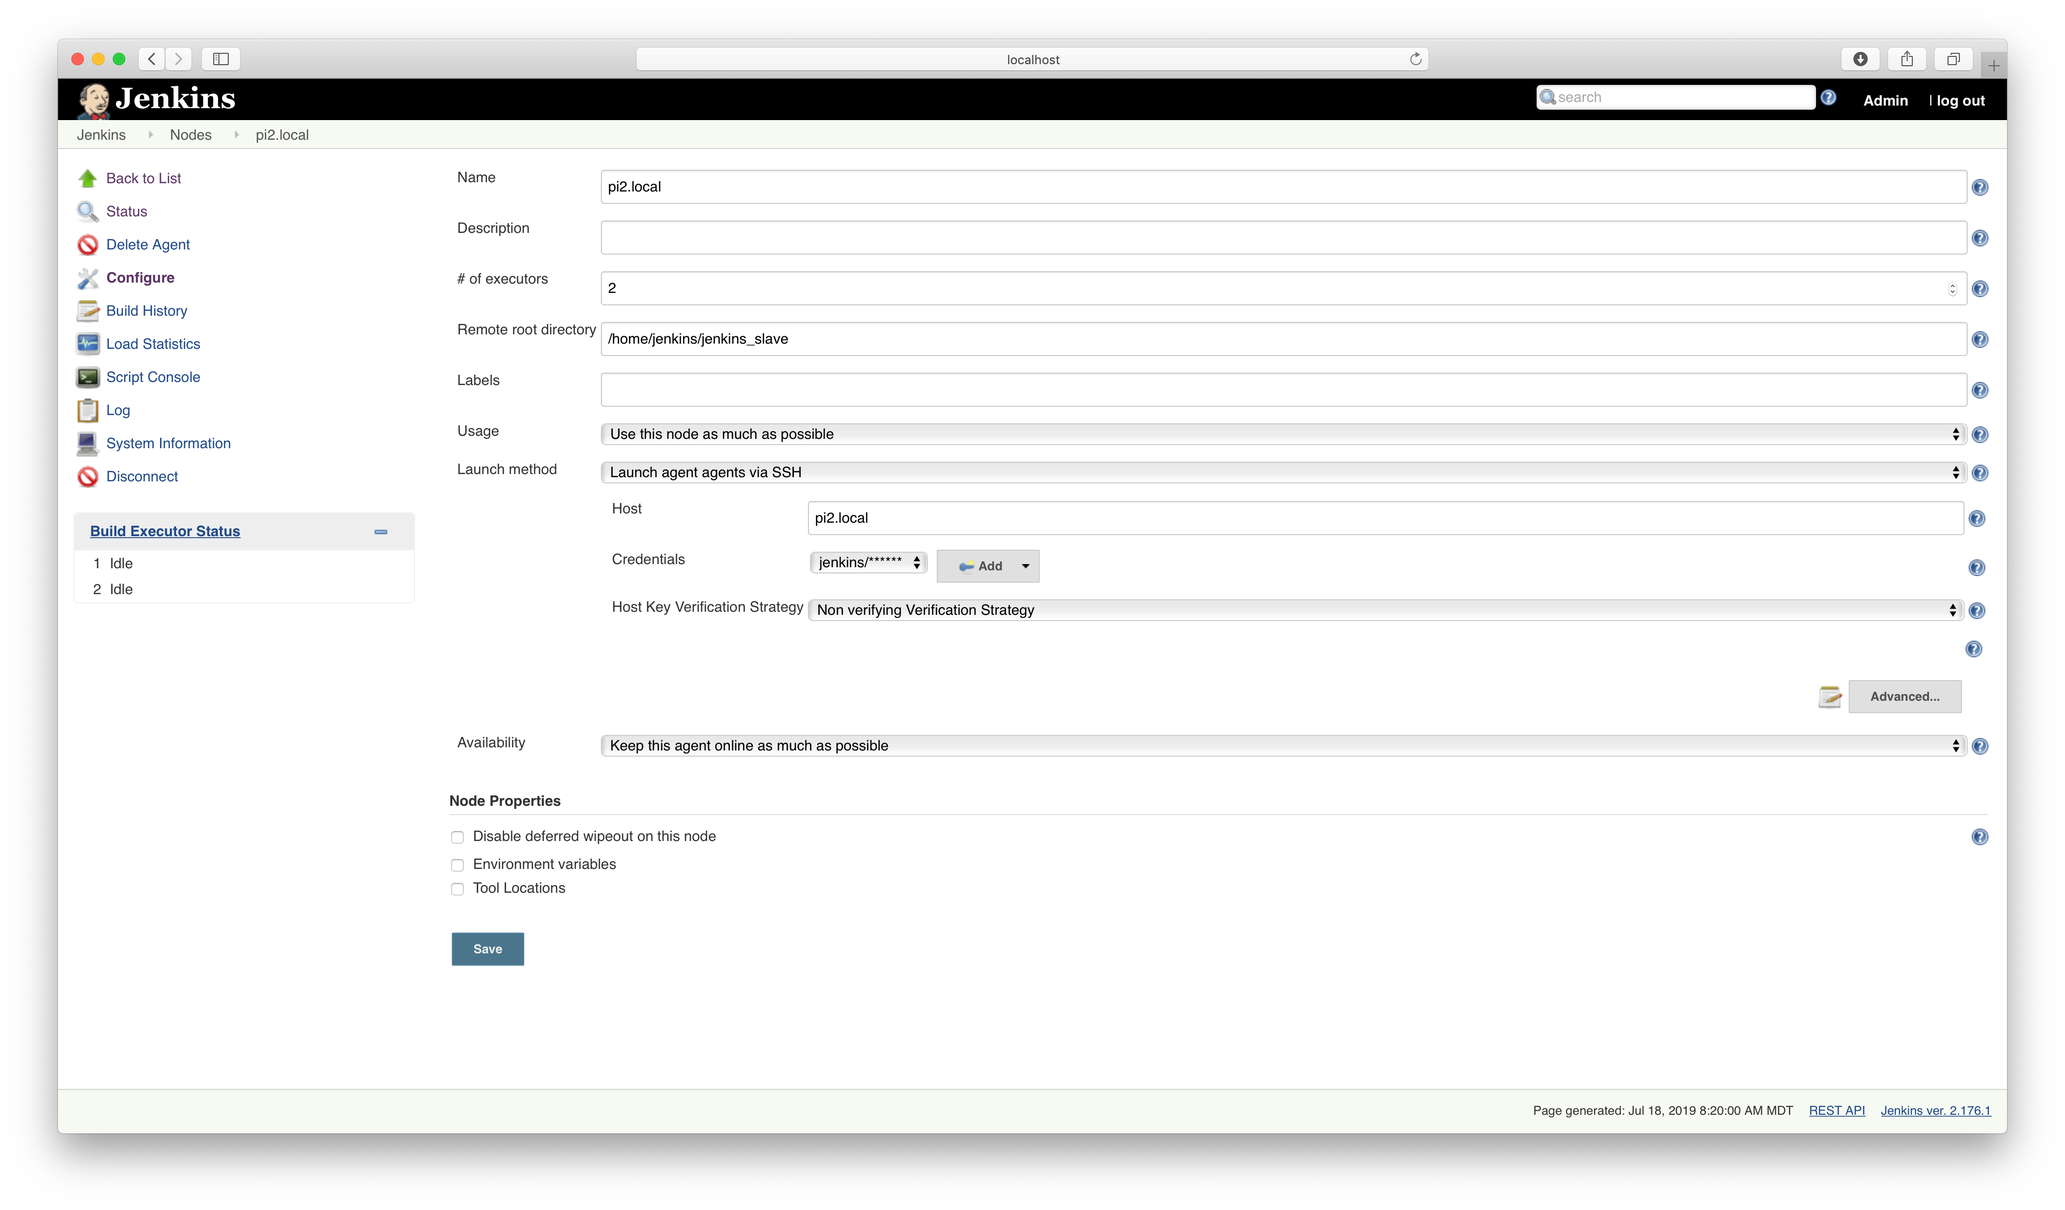
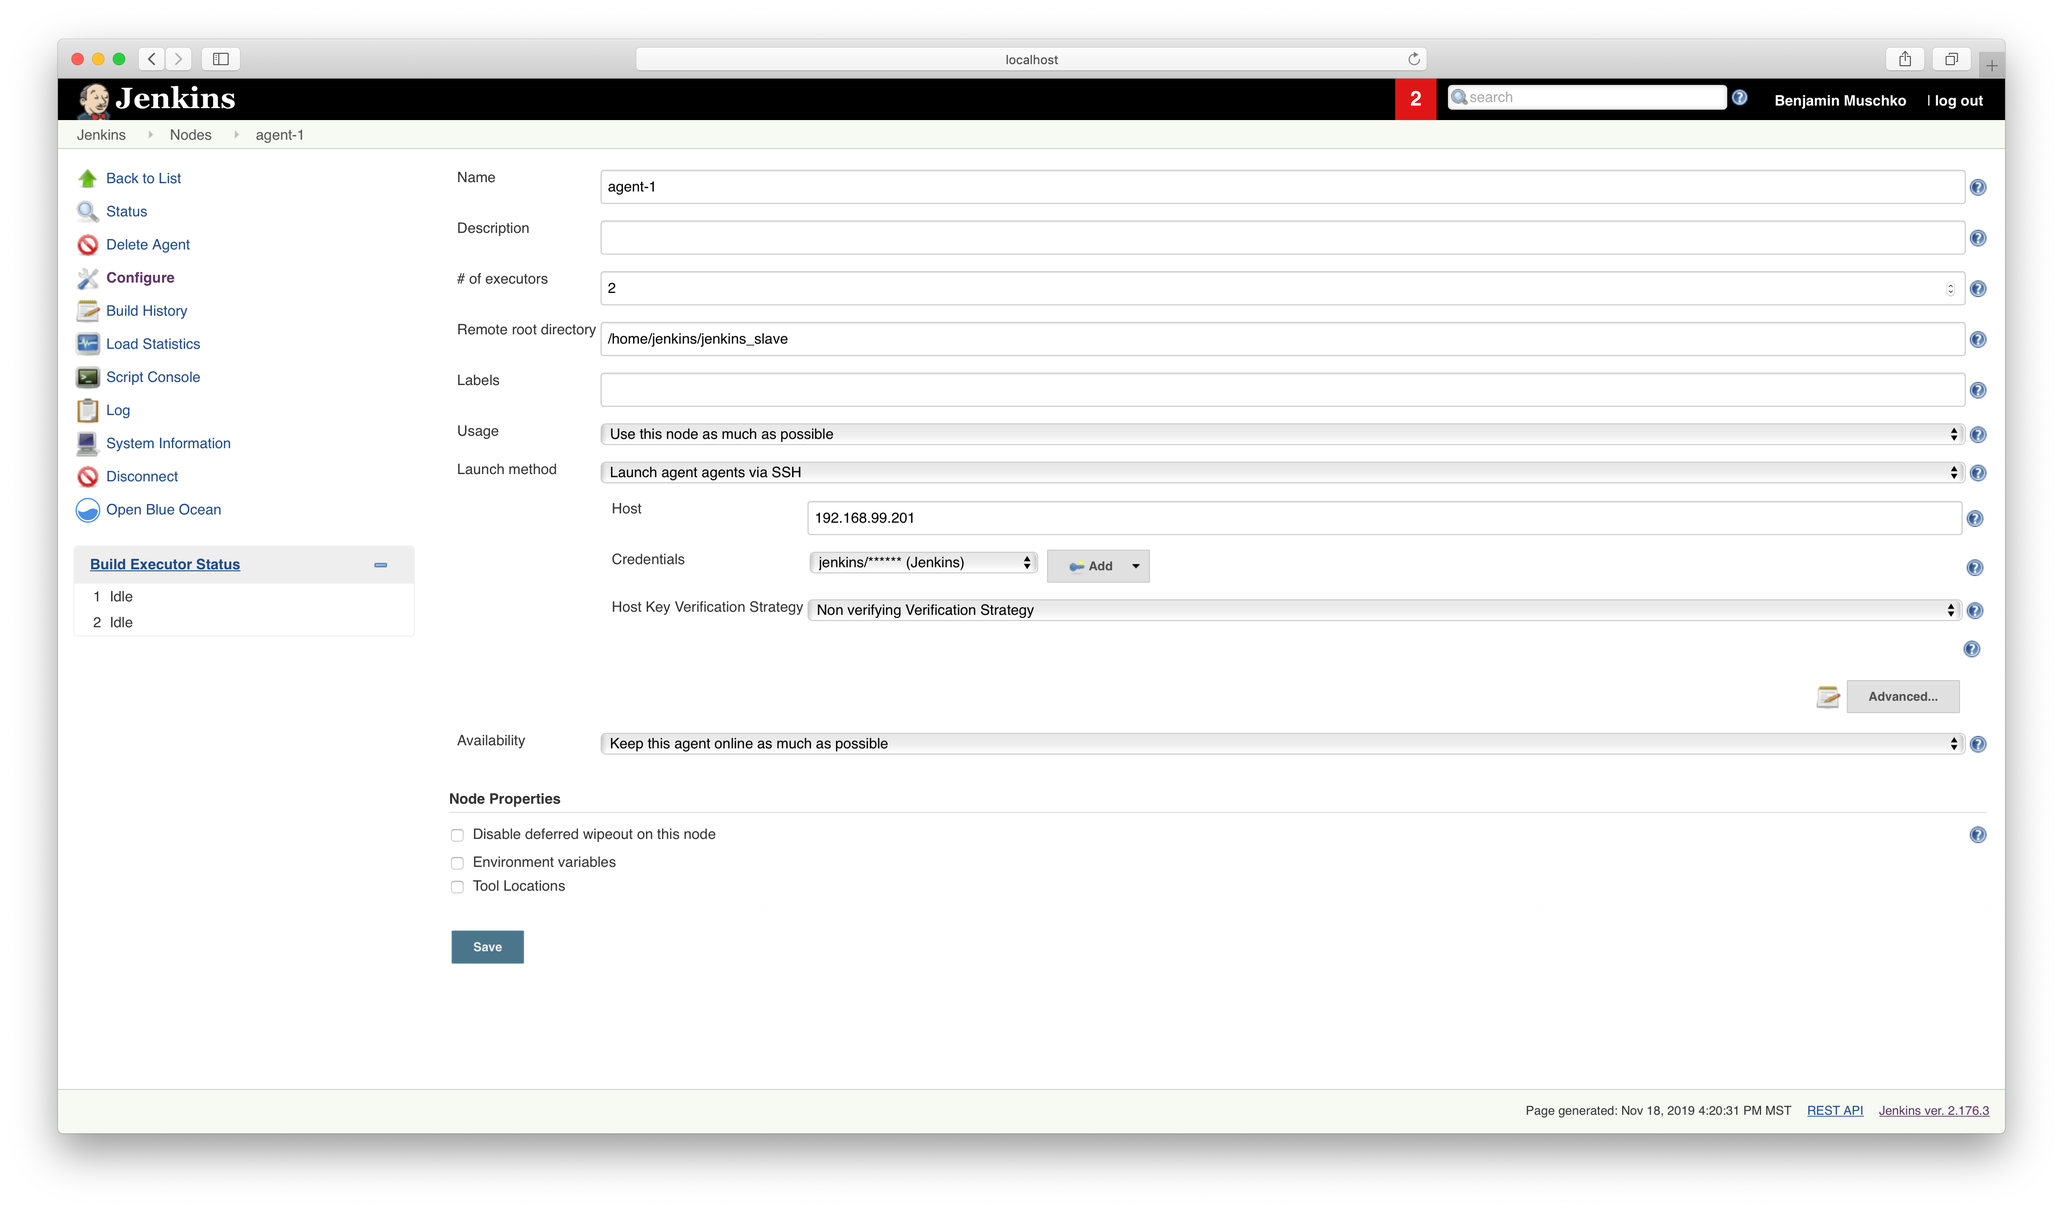
Clarify some details

diff --git a/exercises/13-advanced-jenkinsfile/instructions.md b/exercises/13-advanced-jenkinsfile/instructions.md
@@ -1,6 +1,6 @@
 # Exercise 13
 
-We'll want to enhance the pipeline by additional stages and implement a release workflow. The project is going to use an external tool called [GoReleaser](https://goreleaser.com/) to publish cross-compiled artifacts to [GitHub Releases](https://help.github.com/en/github/administering-a-repository/creating-releases). The binaries should only be released if the commit has been tagged.
+We'll want to enhance the existing Go pipeline by additional stages and implement a release workflow. The project is going to use an external tool called [GoReleaser](https://goreleaser.com/) to publish cross-compiled artifacts to [GitHub Releases](https://help.github.com/en/github/administering-a-repository/creating-releases). The binaries should only be released if the commit has been tagged. You will need to create an account on [CodeCov](https://codecov.io/) and set up a [GitHub token](https://github.com/settings/tokens) to follow along.
 
 ## Enhancing a Pipeline With Advanced Features
 
@@ -8,13 +8,11 @@ We'll want to enhance the pipeline by additional stages and implement a release 
     * Add a build step that runs the shell command `go test ./...`.
     * Generate code coverage metrics by adding the option `-coverprofile=coverage.txt` to the build step.
     * Publish the code coverage metrics to CodeCov by sending a curl command `curl -s https://codecov.io/bash | bash -s -`.
-    * Log into [CodeCov](https://codecov.io/), determine the CodeCov token for the repository (aka Repository Upload Token) and set it up as credential in Jenkins.
-    * Retrieve the credential and set the value as environment variable named `CODECOV_TOKEN`.
 2. Add a stage named `Code Analysis` that uses [golangci-lint](https://github.com/golangci/golangci-lint) to detect issues with the code.
-    * Add a build step for installing the `golangci-lint` with the shell command `curl -sfL https://install.goreleaser.com/github.com/golangci/golangci-lint.sh | bash -s -- -b $GOPATH/bin v1.17.1`
+    * Add a build step for installing the `golangci-lint` with the shell command `curl -sfL https://install.goreleaser.com/github.com/golangci/golangci-lint.sh | bash -s -- -b $GOPATH/bin v1.18.0`
     * Add a build step that runs `golangci-lint` with the shell command `golangci-lint run`.
 3. Add a stage named `Release` that uses [GoReleaser](https://github.com/goreleaser/goreleaser).
     * Only build this step if the commit has been tagged.
-    * Set up a credential in Jenkins named `github_token` and set your GitHub token. 
+    * Set up a credential in Jenkins named `github_token` and set your [GitHub token](https://github.com/settings/tokens). Create a new token if you didn't set up one yet.
     * Retrieve the credential and set the value as environment variable named `GITHUB_TOKEN`.
     * Add a build step that runs the shell command `curl -sL https://git.io/goreleaser | bash`.

diff --git a/exercises/10-distributed-builds/instructions.md b/exercises/10-distributed-builds/instructions.md
@@ -2,16 +2,25 @@
 
 You will start a VM using Vagrant as practice environment to set up a distributed build with 2 agents.
 
+## Starting up the VMs
+
+1. To start up the VMs, navigate to this directory. It should contain a `Vagrantfile`.
+2. Run the command `vagrant up`. Bringing up the VMs might take some minutes. The two VMs will be available with the IP address `192.168.99.201` and `192.168.99.202`. The username/password credentials for those VMs are `jenkins:jenkins`.
+
 ## Configuring and Executing Jobs in a Distributed Build
 
 1. Go to "Manage Jenkins" > "Manage Nodes". You should see a single `master` node.
 2. Configure the `master` node by setting the # of executor value to 0. That will take care of never using the `master` for job workload.
-3. Have other physical or virtual machines ready that can act as agent nodes. Log into the machine as `root` user and create a new user named `jenkins` with the commands `useradd -d /var/lib/jenkins jenkins` and `passwd jenkins`. From the `master` node, copy the contents of the `id_rsa.key` file to the clipboard. Paste the contents of the clipboard to the file `/var/lib/jenkins/.ssh/authorized_keys`.
-4. Add new nodes by clicking "New Nodes". Enter an appropriate name and select the option "Permanent Agent". Use the remote directory `/home/jenkins/jenkins_slave` and set the # of executors to 2. Enter the host and provide credentials by selecting "SSH Username with private key". To keep things easy select "Non verifying Verification Strategy".
+3. Add new nodes by clicking "New Nodes". Enter an appropriate name and select the option "Permanent Agent". Use the remote directory `/home/jenkins/jenkins_slave` and set the # of executors to 2. Enter the IP address `192.168.99.201` as host and provide credentials by selecting "Username with password". You will likely have to create a new credential. To keep things easy select "Non verifying Verification Strategy".
 4. Trigger a build. You should see that the build is only executed on the agent and not the `master` node.
-5. Add at least one more agent.
+5. Add one more agent with the IP address `192.168.99.202`.
 6. Trigger a build. You should see that the build can be executed on any of the agents.
 7. Configure one of the agents to only build jobs with a specific label e.g. `java`. Change the "Usage" field to "Only build jobs with label expressions matching this node".
 8. Configure the `gradle-initializr` job and assign the label `java`.
 9. Trigger a build of the `gradle-initializr` job. It is only executed by the dedicated agent.
 10. Trigger other jobs that do not have the label `java` assigned to them. They are waiting for an agent that can execute the build.
+
+## Shutting down the VMs
+
+1. After you are done with the exercise, navigate to the directory containing the `Vagrantfile`.
+2. Tear down the VM by executing `vagrant destroy -f`.

diff --git a/exercises/11-pipeline-job/instructions.md b/exercises/11-pipeline-job/instructions.md
@@ -1,14 +1,14 @@
 # Exercise 11
 
-In this exercise, you will set up a new multi-branch pipeline job and point it to an existing repository on GitHub. You will visualize the pipeline with the standard view and the Blue Ocean plugin.
+In this exercise, you will set up a new multi-branch pipeline job and point it to an existing repository on GitHub. You will visualize the pipeline with the standard view and the Blue Ocean plugin. The job uses [SonarCloud](https://sonarcloud.io/) to capture static code analysis metrics and deploys the application to [Heroku](https://www.heroku.com/). You will need to create accounts for both services to follow along. Both services offer free tiers.
 
 ## Creating a Pipeline Job
 
-1. Have a look at the [repository](https://github.com/bmuschko/todo-spring-boot) `bmuschko/todo-spring-boot` on GitHub. The repository already contains the build definition in the form of a `Jenkinsfile`. Identify each of the steps.
-2. In Jenkins, set up the credentials `SONARCLOUD_TOKEN` and `HEROKU_API_KEY` if they don't exist yet.
+1. Have a look at the [repository](https://github.com/bmuschko/todo-spring-boot) `bmuschko/todo-spring-boot` on GitHub. The repository already contains the build definition in the form of a `Jenkinsfile`. Identify each of the steps. Fork and clone the repository so you can later on create and push new branches.
+2. In Jenkins, set up the credentials `SONARCLOUD_TOKEN` and `HEROKU_API_KEY` if they don't exist yet. The SonarCloud token can be retrieved under [My Account > Security](https://sonarcloud.io/account/security/). The Heroku API can be generated under [Account Settings > API Key](https://dashboard.heroku.com/account).
 3. Create a new multi-branch pipeline job for the repository.
 4. The initial build is triggered automatically. Have a look at the pipeline in the standard view and its console output.
-5. Install the Blue Ocean plugin.
+5. Install the [Blue Ocean plugin](https://plugins.jenkins.io/blueocean).
 6. Open the Blue Ocean pipeline visualization for the job. Manually trigger the deployment step. Open a browser with the deployed application on Heroku.
 7. Create a new branch named `bugfix` and push it to the remote repository. The code should be based off of `master`.
 8. Select "Scan Multibranch Pipeline Now". The job should build the new branch.

diff --git a/exercises/13-advanced-jenkinsfile/solution/solution.md b/exercises/13-advanced-jenkinsfile/solution/solution.md
@@ -1,16 +1,9 @@
 # Solution
 
-Create the credentials for the CodeCov token.
-
-![CodeCov Credentials](./images/codecov_token_credentials.png)
-
 You can implement the "Test" stage as follows.
 
 ```groovy
 stage('Test') {
-    environment {
-        CODECOV_TOKEN = credentials('CODECOV_TOKEN')
-    }
     steps {
         sh 'go test ./... -coverprofile=coverage.txt'
         sh "curl -s https://codecov.io/bash | bash -s -"
@@ -23,7 +16,7 @@ You can implement the "Code Analysis" stage as follows.
 ```groovy
 stage('Code Analysis') {
     steps {
-        sh 'curl -sfL https://install.goreleaser.com/github.com/golangci/golangci-lint.sh | bash -s -- -b $GOPATH/bin v1.17.1'
+        sh 'curl -sfL https://install.goreleaser.com/github.com/golangci/golangci-lint.sh | bash -s -- -b $GOPATH/bin v1.18.0'
         sh 'golangci-lint run'
     }
 }
@@ -45,6 +38,50 @@ stage('Release') {
     }
     steps {
         sh 'curl -sL https://git.io/goreleaser | bash'
+    }
+}
+```
+
+The final `Jenkinsfile` looks similar to the solution below.
+
+```groovy
+pipeline {
+    agent any
+    tools {
+        go 'go-1.12'
+    }
+    environment {
+        GO111MODULE = 'on'
+    }
+    stages {
+        stage('Build') {
+            steps {
+                sh 'go build'
+            }
+        }
+        stage('Test') {
+            steps {
+                sh 'go test ./... -coverprofile=coverage.txt'
+                sh "curl -s https://codecov.io/bash | bash -s -"
+            }
+        }
+        stage('Code Analysis') {
+            steps {
+                sh 'curl -sfL https://install.goreleaser.com/github.com/golangci/golangci-lint.sh | bash -s -- -b $GOPATH/bin v1.18.0'
+                sh 'golangci-lint run'
+            }
+        }
+        stage('Release') {
+            when {
+                buildingTag()
+            }
+            environment {
+                GITHUB_TOKEN = credentials('GITHUB_TOKEN')
+            }
+            steps {
+                sh 'curl -sL https://git.io/goreleaser | bash'
+            }
+        }
     }
 }
 ```

diff --git a/exercises/01-jenkins-installation/instructions.md b/exercises/01-jenkins-installation/instructions.md
@@ -1,12 +1,12 @@
 # Exercise 1
 
-In this exercise, you will practice installing and configuring Jenkins on your machine.
+In this exercise, you will practice installing and configuring Jenkins on your machine. Feel free to experiment with a different Jenkins distribution than the proposed WAR file.
 
 ## Installing Jenkins
 
 1. Download the [latest stable Jenkins WAR file](http://mirrors.jenkins.io/war-stable/latest/jenkins.war). To download from the command line, use `wget http://mirrors.jenkins.io/war-stable/latest/jenkins.war`.
 2. Open a terminal and navigate to the directory containing the WAR file.
-3. Run the command `java -jar jenkins.war` to start Jenkins on port 8080. Provide the `--httpPort` option if you experience a port conflict e.g. `java -jar jenkins.war --httpPort=9999`. After a couple of seconds you should see the message "Jenkins is fully up and running" in the log output.
+3. Run the command `java -jar jenkins.war` to start Jenkins on port 8080. Provide the `--httpPort` option if you experience a port conflict e.g. `java -jar jenkins.war --httpPort=9999`. For more information on starting and stopping Jenkins, see the [user guide](https://wiki.jenkins.io/display/JENKINS/Starting+and+Accessing+Jenkins). After a couple of seconds you should see the message "Jenkins is fully up and running" in the log output.
 4. Open a browser of your choice and navigate to `localhost:<port>`. The default is `localhost:8080`.
 5. In the screen named "Unlock Jenkins", enter the password from the console output. Press the "Continue" button.
 6. In the screen named "Customize Jenkins", select the option "Install suggested plugins".

diff --git a/exercises/12-basic-jenkinsfile/instructions.md b/exercises/12-basic-jenkinsfile/instructions.md
@@ -5,13 +5,13 @@ In this exercise, you'll create a declarative pipeline for a Go-based project. T
 ## Writing a Basic Jenkinsfile
 
 1. Create a new GitHub repository named `go-on-jenkins`.
-2. Create a new `Jenkinsfile` in the root directory of the repository as well as a simple `main.go` file. The main function just prints "Hello World!". Initialize the project via Go Modules.
+2. Create a new `Jenkinsfile` in the root directory of the repository as well as a simple `main.go` file. The main function just prints "Hello World!". The repository https://github.com/bmuschko/go-helloworld-template shows an example.
 3. Commit the files and push them to the remote repository.
 4. Set up a new pipeline job for this repository in Jenkins.
 5. Install the [Jenkins Go plugin](https://plugins.jenkins.io/golang).
-6. Configure the latest Go runtime as global tool.
+6. Configure the latest Go runtime as global tool. Use a name that reflects the Go version. Remember the name for the next step.
 7. Enhance the `Jenkinsfile` based on the following requirements. The Jenkinsfile should use the declarative syntax.
     * The job can run on all agents.
     * The job sets the environment variable `GO111MODULES=on`.
-    * The job uses the Go runtime from the global tool definition.
+    * The job uses the Go runtime from the global tool definition (see previous step).
     * The job specifies one build stage named "Build". The build stage executes the shell command `go build`.

diff --git a/exercises/02-job-creation/instructions.md b/exercises/02-job-creation/instructions.md
@@ -5,10 +5,10 @@ In this exercise, you will create a new freestyle job and configure it to build 
 ## Defining, Configuring and Organizing a Job
 
 1. From the dashboard, click the "New Item" button.
-2. Enter the item name "my-freestyle-job" and select "Freestyle project". Press the "OK" button.
+2. Enter the item name `my-freestyle-job` and select "Freestyle project". Press the "OK" button.
 3. In the job configuration, define the option to only keep the last 2 builds. Provide the description "A simple freestyle job". Upon building the project, a String parameter named `MESSAGE` should be provided. Press the "Save" button.
 4. Trigger a new build by pressing the "Build with Parameters" button. Enter a value for the `MESSAGE` parameter. The build should finish successfully. Locate the provided parameter value in the build information.
 5. Run the build two more times. What do you see?
-6. Create a new view named "test". Add the job to the view.
-7. Create a new folder named "freestyle" as part of the view. Move the job into the folder.
+6. Create a new view named `test`. Add the job to the view.
+7. Create a new folder named `freestyle` as part of the view. Move the job into the folder.
 8. Locate the build information in `$JENKINS_HOME`. Inspect the directory structure.

diff --git a/exercises/04-scm-configuration/solution/solution.md b/exercises/04-scm-configuration/solution/solution.md
@@ -8,7 +8,7 @@ Configure the Git SCM and point the proper URL. The default is the `master` bran
 
 ![Git SCM](./images/git-scm.png)
 
-Create the Gradle build step.
+Create the Gradle build step. Ensure to select the "Use Gradle Wrapper" option.
 
 ![Git SCM](./images/gradle-build-step.png)
 
@@ -68,4 +68,4 @@ Build step 'Invoke Gradle script' changed build result to SUCCESS
 Finished: SUCCESS
 ```
 
-As a side note: The GitHub plugin is [currently broken](https://issues.jenkins-ci.org/browse/JENKINS-11337) if you wanted to build multiple branches with a single job. You will have to model it as a multi-branch pipeline job.
+**As a side note:** The GitHub plugin is [currently broken](https://issues.jenkins-ci.org/browse/JENKINS-11337) if you wanted to build multiple branches with a single job. You will have to model it as a multi-branch pipeline job.

diff --git a/exercises/14-shared-library/solution/solution.md b/exercises/14-shared-library/solution/solution.md
@@ -13,7 +13,7 @@ The directory structure of shared library repository should have the following s
 Define the pipeline as global variable in the file `standard.groovy`.
 
 ```groovy
-def call(String goToolName = 'go-1.12', String golangCiVersion = 'v1.12.5') {
+def call(String goToolName = 'go-1.12', String golangCiVersion = 'v1.18.0') {
     pipeline {
         agent any
         tools {
@@ -29,9 +29,6 @@ def call(String goToolName = 'go-1.12', String golangCiVersion = 'v1.12.5') {
                 }
             }
             stage('Test') {
-                environment {
-                    CODECOV_TOKEN = credentials('CODECOV_TOKEN')
-                }
                 steps {
                     sh 'go test ./... -coverprofile=coverage.txt'
                     sh "curl -s https://codecov.io/bash | bash -s -"

diff --git a/exercises/05-test-execution-and-reporting/instructions.md b/exercises/05-test-execution-and-reporting/instructions.md
@@ -8,7 +8,7 @@ In this exercise, you will configure the existing job to execute tests. Furtherm
 2. Execute the build twice to generate a graph. Have a look at the executed tests in the test results.
 3. Include all test results (unit and integration tests) in the reporting.
 4. Have a look at how the test result trend changes.
-5. Install the JaCoCo plugin.
+5. Install the [JaCoCo plugin](https://plugins.jenkins.io/jacoco).
 6. Reconfigure the Gradle build step to also generate JaCoCo reports: `clean build jacocoTestReport jacocoIntegrationTestReport`.
 7. Add a post-build action for publish the JaCoCo reports. Use the following path to look for results: `build/jacoco/**.exec`.
 8. Execute the build twice to generate a graph. Have a look at the code coverage results.

diff --git a/exercises/07-artifacts/instructions.md b/exercises/07-artifacts/instructions.md
@@ -8,7 +8,7 @@ You will enhance the existing job to generate a JAR file and store it on Jenkins
 2. Execute the build. The build should list the artifact `gradle-initializr-1.0.0.jar`.
 3. Have a look at the recorded fingerprints of this build.
 4. Render the MD5 hash of the artifact and the usage of the artifact.
-5. Install the Copy Artifacts plugin.
+5. Install the [Copy Artifacts plugin](https://plugins.jenkins.io/copyartifact).
 6. Create a downstream job named `consumer`.
 7. Configure the downstream job to use the artifact produced by the upstream job.
 8. Run the the build for the job `gradle-initializr`.

diff --git a/exercises/07-artifacts/solution/solution.md b/exercises/07-artifacts/solution/solution.md
@@ -12,7 +12,7 @@ Have a look at the details of the fingerprinting.
 
 ![Fingerprint Details](./images/fingerprint-details.png)
 
-Install the Copy Artifacts plugin.
+Install the Copy Artifacts plugin from the Plugin Manager page.
 
 ![Copy Artifacts Plugin](./images/copy-artifacts-plugin.png)
 
